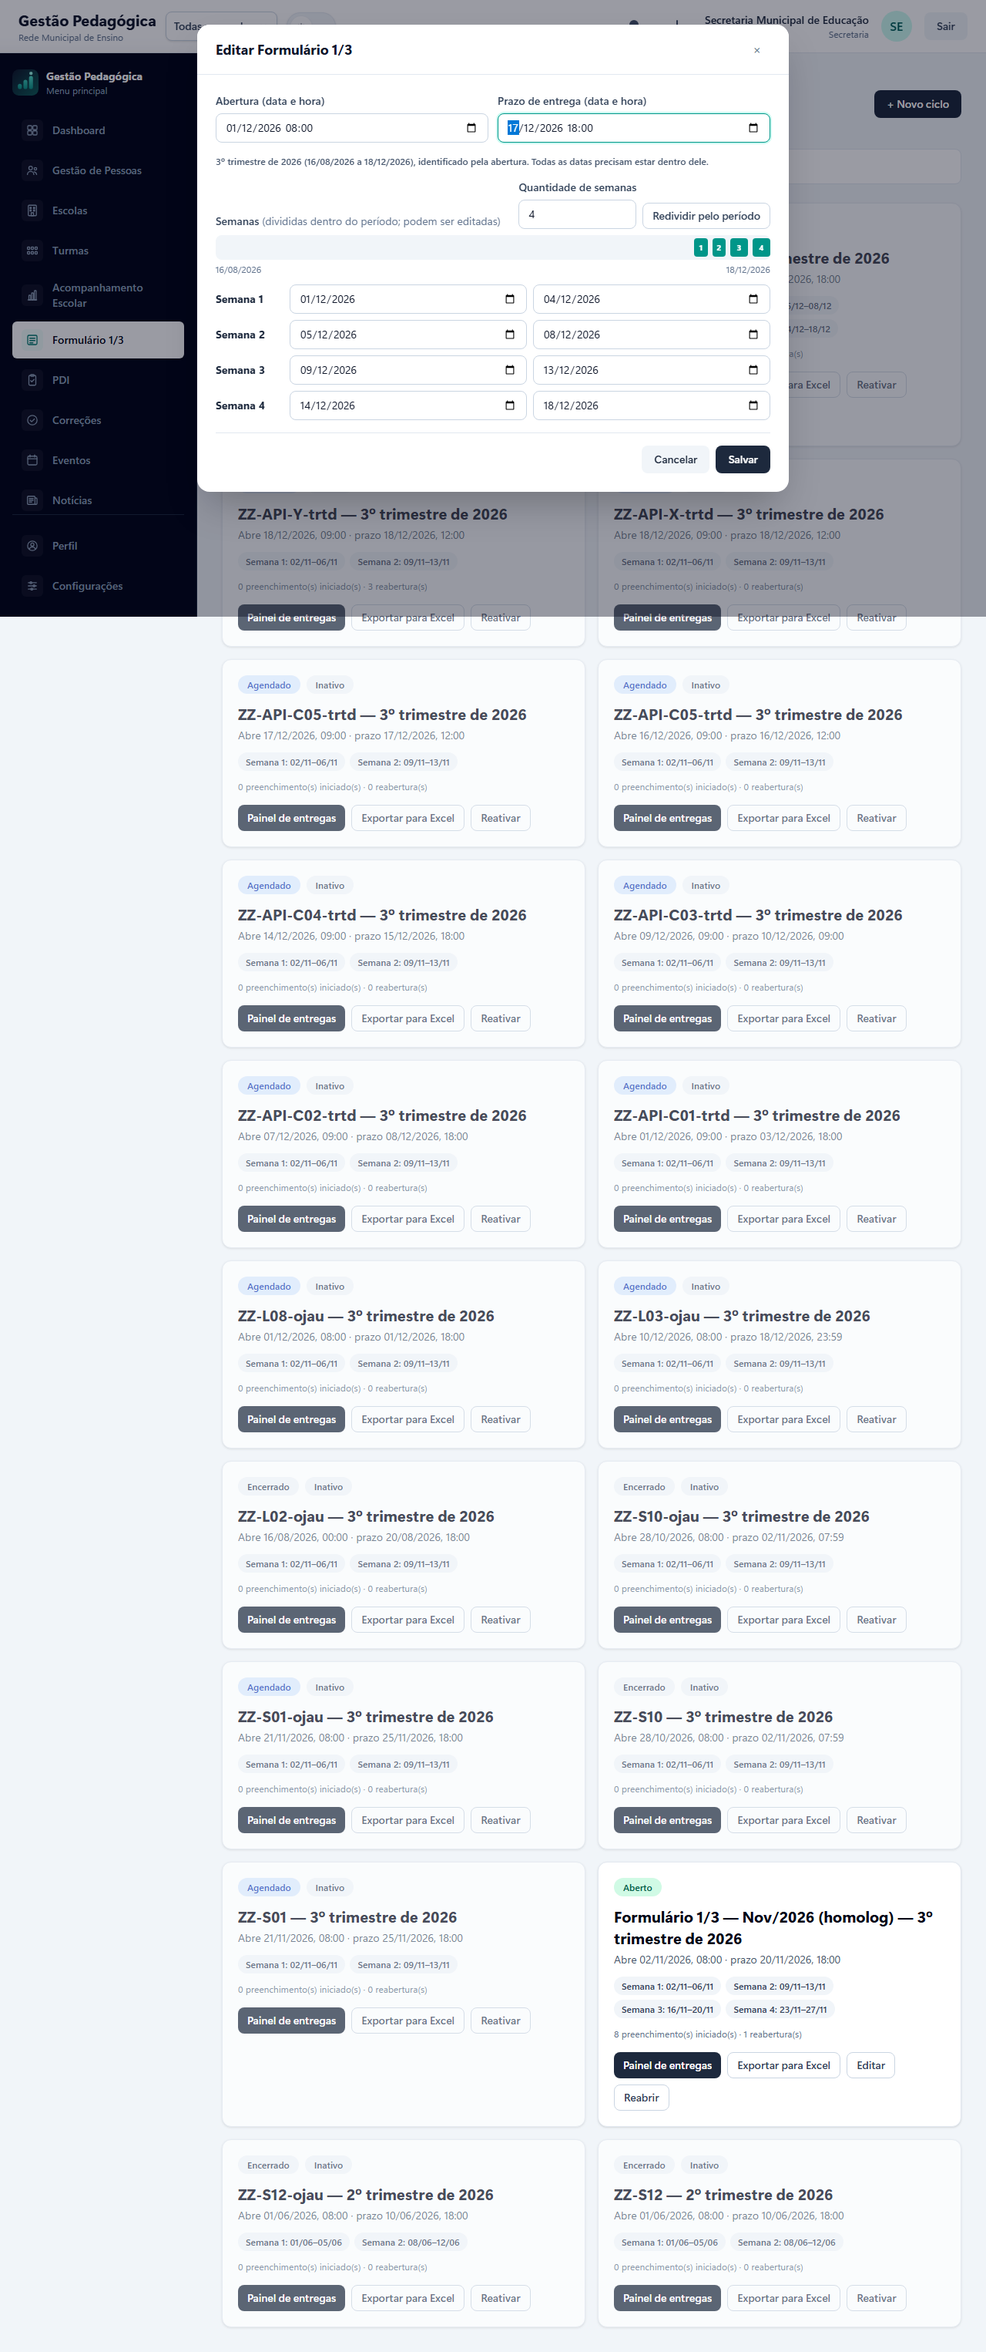
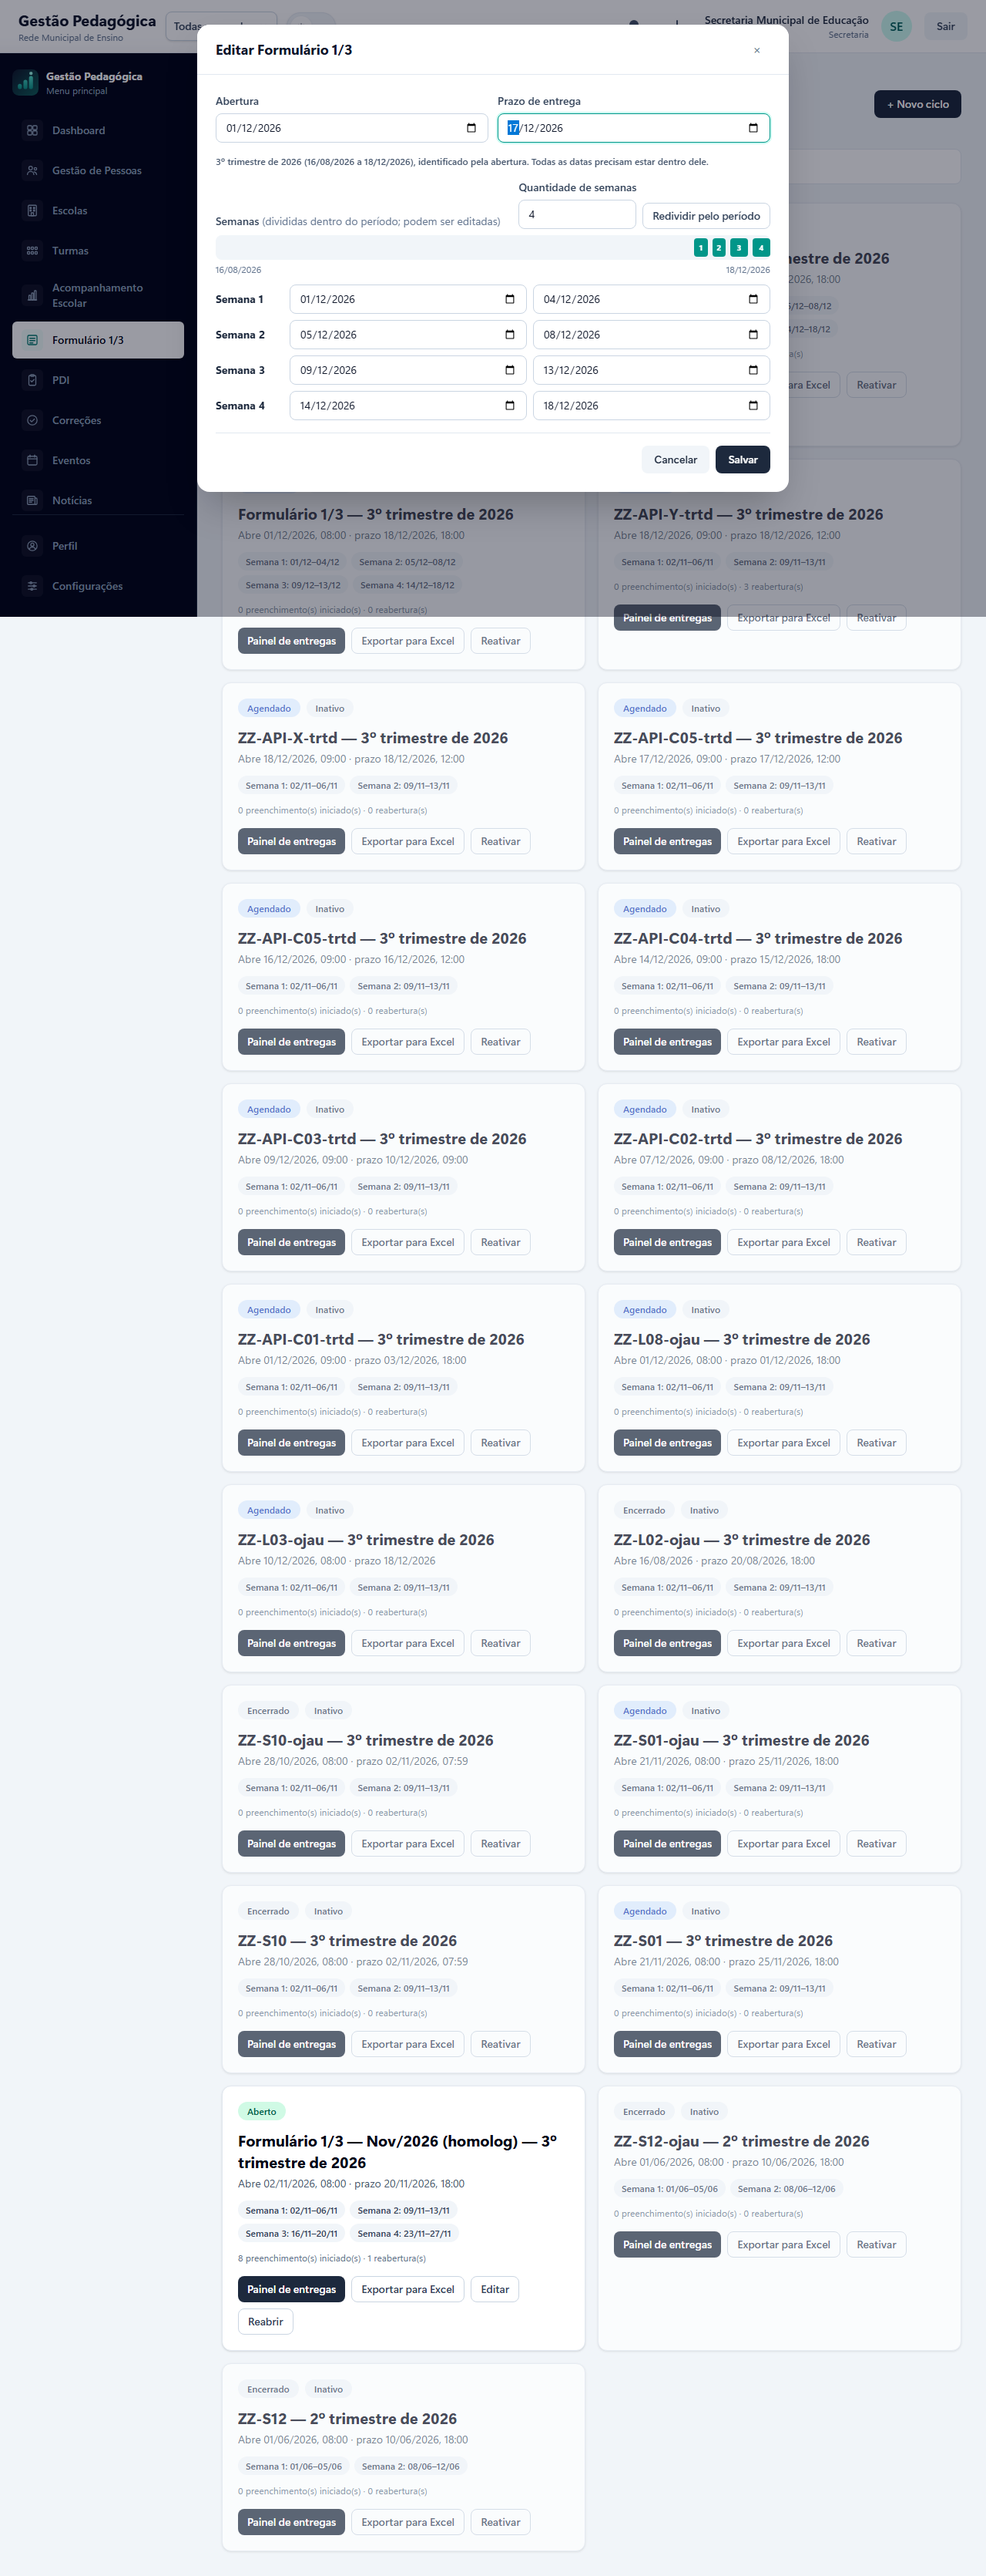
1/3: abertura e prazo só por data (abre 00:00, prazo até 23:59); ciclo antigo mantém a hora se a data não mudar

diff --git a/src/pages/UmTercoSecretariaPage.jsx b/src/pages/UmTercoSecretariaPage.jsx
@@ -51,6 +51,12 @@ const LinhaDoTempo = ({ janela, semanas }) => {
 };
 
 const TITULO_PADRAO = 'Formulário 1/3';
+// Cartão do ciclo: só a data quando a hora é a padrão (abre 00:00, prazo 23:59); ciclos antigos com
+// hora própria continuam mostrando a hora.
+const dataSemHoraPadrao = (iso, horaPadrao) => {
+  const local = paraInputDataHora(iso);
+  return local.slice(11, 16) === horaPadrao ? dataFmt(local.slice(0, 10)) : formatarDataHora(iso);
+};
 const SEMANAS_PADRAO = 4;
 
 // Data 'YYYY-MM-DD' <-> dia inteiro (UTC), para dividir o período sem efeito de fuso.
@@ -73,8 +79,13 @@ const dividirPeriodo = (inicio, fim, n) => {
 const CicloFormModal = ({ ciclo, janelas, onClose, onSalvo }) => {
   const editando = !!ciclo;
   const travado = editando && ciclo.entregasIniciadas > 0;
-  const [abreEm, setAbreEm] = useState(paraInputDataHora(ciclo?.abreEm));
-  const [prazoEm, setPrazoEm] = useState(paraInputDataHora(ciclo?.prazoEm));
+  // Abertura e prazo são escolhidos só por DATA (pedido do usuário, 10/11/2026): abre às 00:00 e o
+  // prazo vale até 23:59 do dia (horário de São Paulo). Ciclo antigo com hora própria (ex.: prazo
+  // 18:00) mantém essa hora enquanto a data não for alterada — editar não muda o prazo sem querer.
+  const abreOriginal = paraInputDataHora(ciclo?.abreEm);
+  const prazoOriginal = paraInputDataHora(ciclo?.prazoEm);
+  const [abreEm, setAbreEm] = useState(abreOriginal.slice(0, 10));
+  const [prazoEm, setPrazoEm] = useState(prazoOriginal.slice(0, 10));
   const [semanas, setSemanas] = useState(ciclo ? ciclo.semanas.map(s => ({ dataInicio: s.dataInicio, dataFim: s.dataFim })) : Array.from({ length: SEMANAS_PADRAO }, () => ({ ...SEMANA_VAZIA })));
   const [salvando, setSalvando] = useState(false);
   const [erro, setErro] = useState('');
@@ -111,7 +122,10 @@ const CicloFormModal = ({ ciclo, janelas, onClose, onSalvo }) => {
     if (!janela) { setErro('A data de abertura não está dentro de nenhum trimestre do calendário (Configurações › Trimestres).'); return; }
     setSalvando(true);
     // Título sempre "Formulário 1/3" (ciclos antigos mantêm o título que já têm).
-    const corpo = { anoLetivo: janela.ano, trimestre: trimestreNumero, titulo: editando ? ciclo.titulo : TITULO_PADRAO, abreEm, prazoEm, semanas };
+    const corpo = { anoLetivo: janela.ano, trimestre: trimestreNumero, titulo: editando ? ciclo.titulo : TITULO_PADRAO,
+      abreEm: editando && abreEm === abreOriginal.slice(0, 10) ? abreOriginal : `${abreEm}T00:00`,
+      prazoEm: editando && prazoEm === prazoOriginal.slice(0, 10) ? prazoOriginal : `${prazoEm}T23:59`,
+      semanas };
     try {
       if (editando) await atualizarCicloUmTerco(ciclo.id, corpo);
       else await criarCicloUmTerco(corpo);
@@ -130,8 +144,8 @@ const CicloFormModal = ({ ciclo, janelas, onClose, onSalvo }) => {
         {travado && <p className="rounded-lg border border-amber-200 bg-amber-50 px-3 py-2 text-xs font-semibold text-amber-900">Já há Professores preenchendo: o trimestre e a quantidade de semanas não podem mudar. Datas e prazo continuam editáveis.</p>}
 
         <div className="grid gap-3 sm:grid-cols-2">
-          <FormField label="Abertura (data e hora)"><input type="datetime-local" className={inputClass} value={abreEm} onChange={e => mudarAbertura(e.target.value)} required /></FormField>
-          <FormField label="Prazo de entrega (data e hora)"><input type="datetime-local" className={inputClass} value={prazoEm} onChange={e => mudarPrazo(e.target.value)} required /></FormField>
+          <FormField label="Abertura"><input type="date" className={inputClass} value={abreEm} onChange={e => mudarAbertura(e.target.value)} required /></FormField>
+          <FormField label="Prazo de entrega"><input type="date" className={inputClass} value={prazoEm} onChange={e => mudarPrazo(e.target.value)} required /></FormField>
         </div>
 
         {janela
@@ -282,7 +296,7 @@ export const UmTercoSecretariaPage = () => {
                   {ciclo.editavelAgora && ciclo.statusPrazo === 'encerrado' && <Badge variant="blue">Reaberto</Badge>}
                 </div>
                 <h2 className="mt-3 text-xl font-bold text-slate-950">{ciclo.titulo} — {ciclo.trimestre}º trimestre de {ciclo.anoLetivo}</h2>
-                <p className="mt-1 text-sm text-slate-600">Abre {formatarDataHora(ciclo.abreEm)} · prazo {formatarDataHora(ciclo.prazoEm)}</p>
+                <p className="mt-1 text-sm text-slate-600">Abre {dataSemHoraPadrao(ciclo.abreEm, '00:00')} · prazo {dataSemHoraPadrao(ciclo.prazoEm, '23:59')}</p>
                 <div className="mt-3 flex flex-wrap gap-1.5">
                   {ciclo.semanas.map(s => <span key={s.id} className="rounded-full bg-slate-100 px-2.5 py-1 text-xs font-semibold text-slate-700">{s.rotulo}: {formatarDiaMes(s.dataInicio)}–{formatarDiaMes(s.dataFim)}</span>)}
                 </div>

diff --git a/CLAUDE_CONTEXT.md b/CLAUDE_CONTEXT.md
@@ -2332,3 +2332,10 @@ Por isso, antes de executar qualquer mudança sensível, confirmar o estado real
   - **Ajustes de teste:**
     - o helper `criarCiclo` (`lib.mjs`) foi adaptado: os parâmetros `ano`, `tri` e `titulo` ficaram sem efeito;
     - os roteiros antigos 04 e 06, que identificavam ciclos pelo título, não foram executados de novo.
+- **10/11/2026: abertura e prazo do 1/3 só por data, sem hora (pedido do usuário; branch `feature/modal-ciclo-um-terco`; só frontend).**
+  - **Modal:** campos "Abertura" e "Prazo de entrega" do tipo data. O sistema envia a abertura às **00:00** e o prazo às **23:59** (horário de São Paulo): o professor pode preencher até o fim do dia do prazo.
+  - **Ciclo antigo com hora própria** (ex.: o #1 local, prazo 20/11 às 18:00): editar e salvar **sem mudar a data** mantém a hora original, para não mudar o prazo sem querer. Mudando a data, passa a valer 00:00/23:59.
+  - **Cartão do ciclo:** mostra só a data quando a hora é a padrão ("Abre 01/12/2026 · prazo 18/12/2026"); ciclos antigos com hora própria continuam mostrando a hora. As outras telas (painel, tela do professor) não mudaram e continuam mostrando a hora (ex.: "prazo 18/12/2026, 23:59").
+  - **Efeito na regra UT-04 (sem sobreposição):** dois ciclos não podem compartilhar o mesmo dia (um termina 23:59, o seguinte abre 00:00 do dia seguinte).
+  - **Backend:** nada mudou.
+  - **Teste:** `44-modal-novo-ciclo-um-terco.mjs`: **14/14**. Novos casos: campos do tipo data, banco com 00:00 → 23:59, cartão sem hora, ciclo antigo mantém a hora ao salvar sem mudar a data. O helper `criarCiclo` passou a usar só a data.
